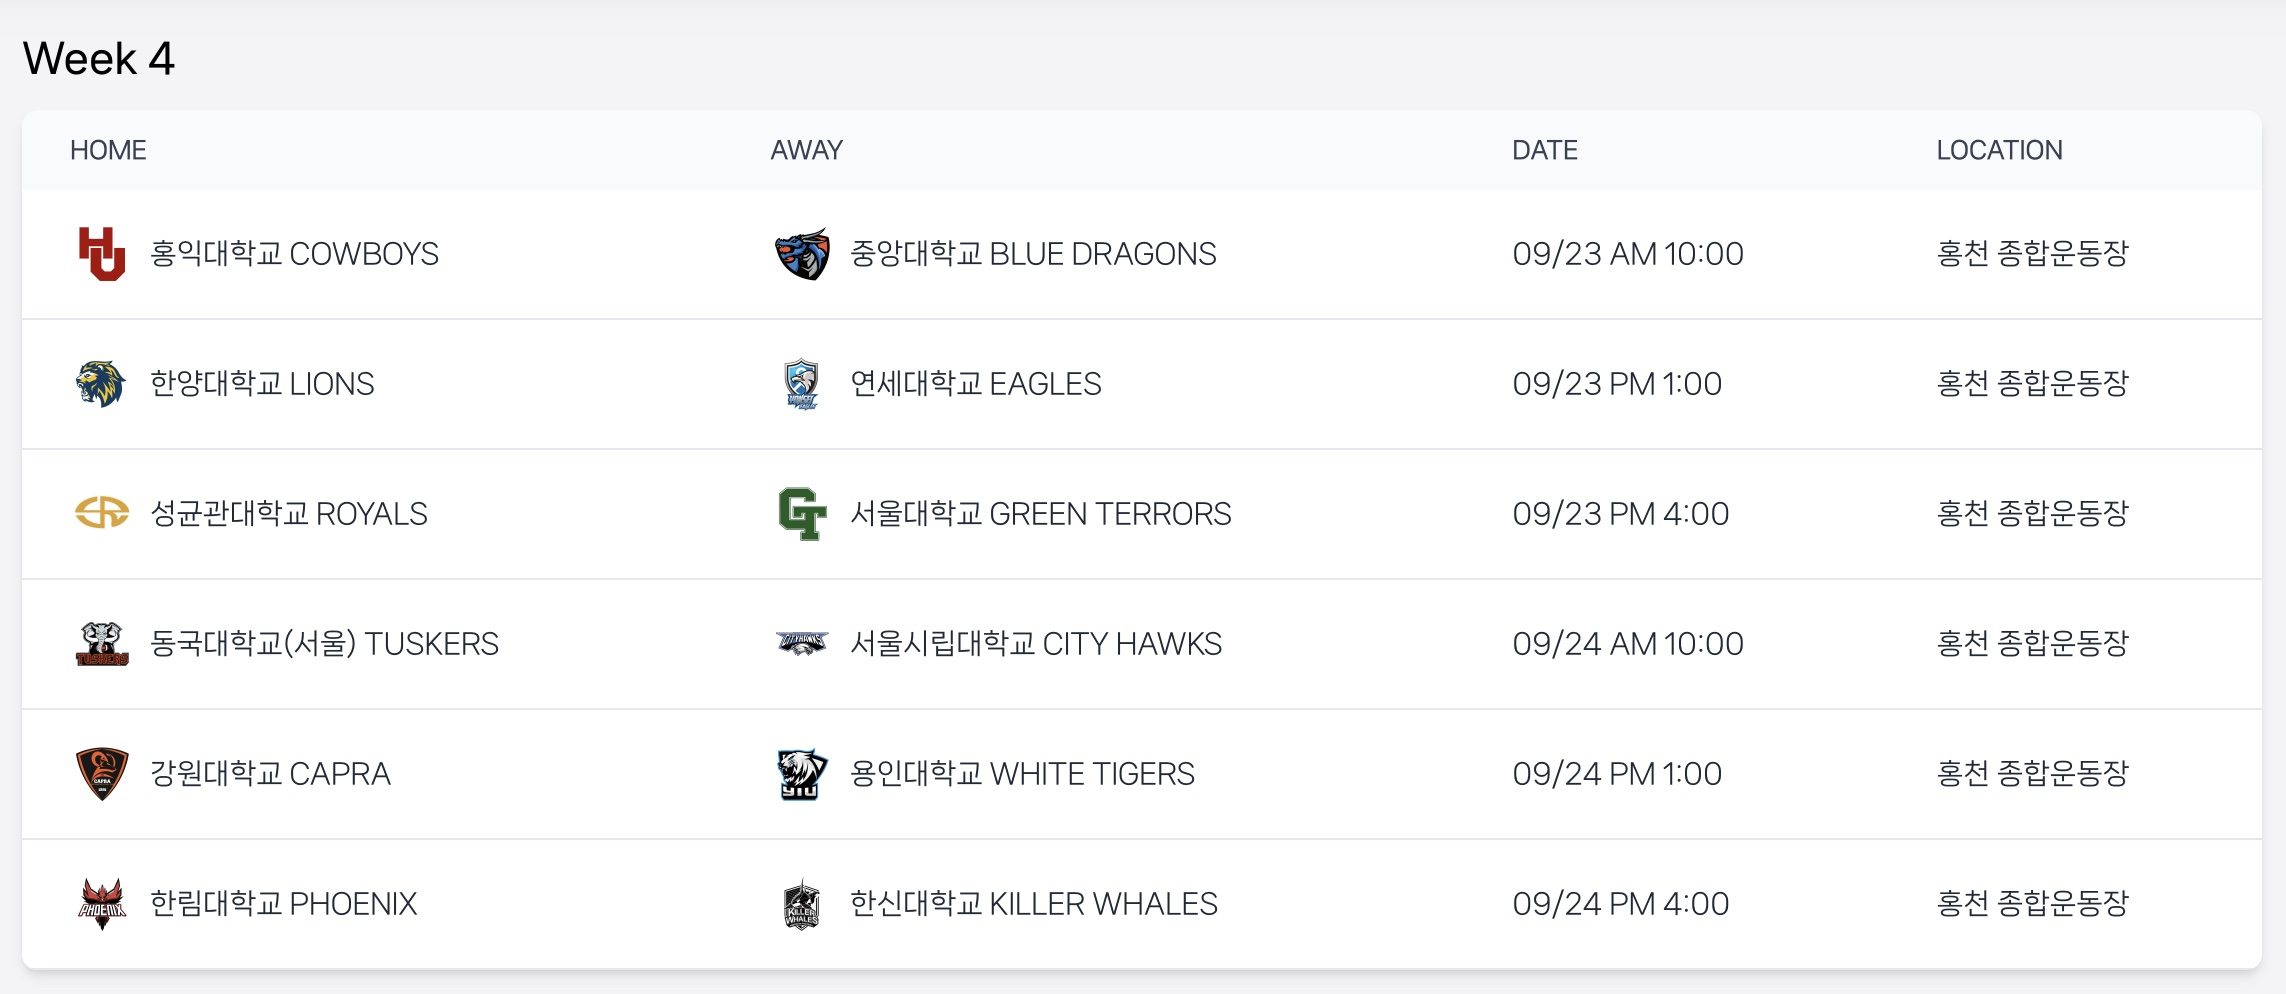
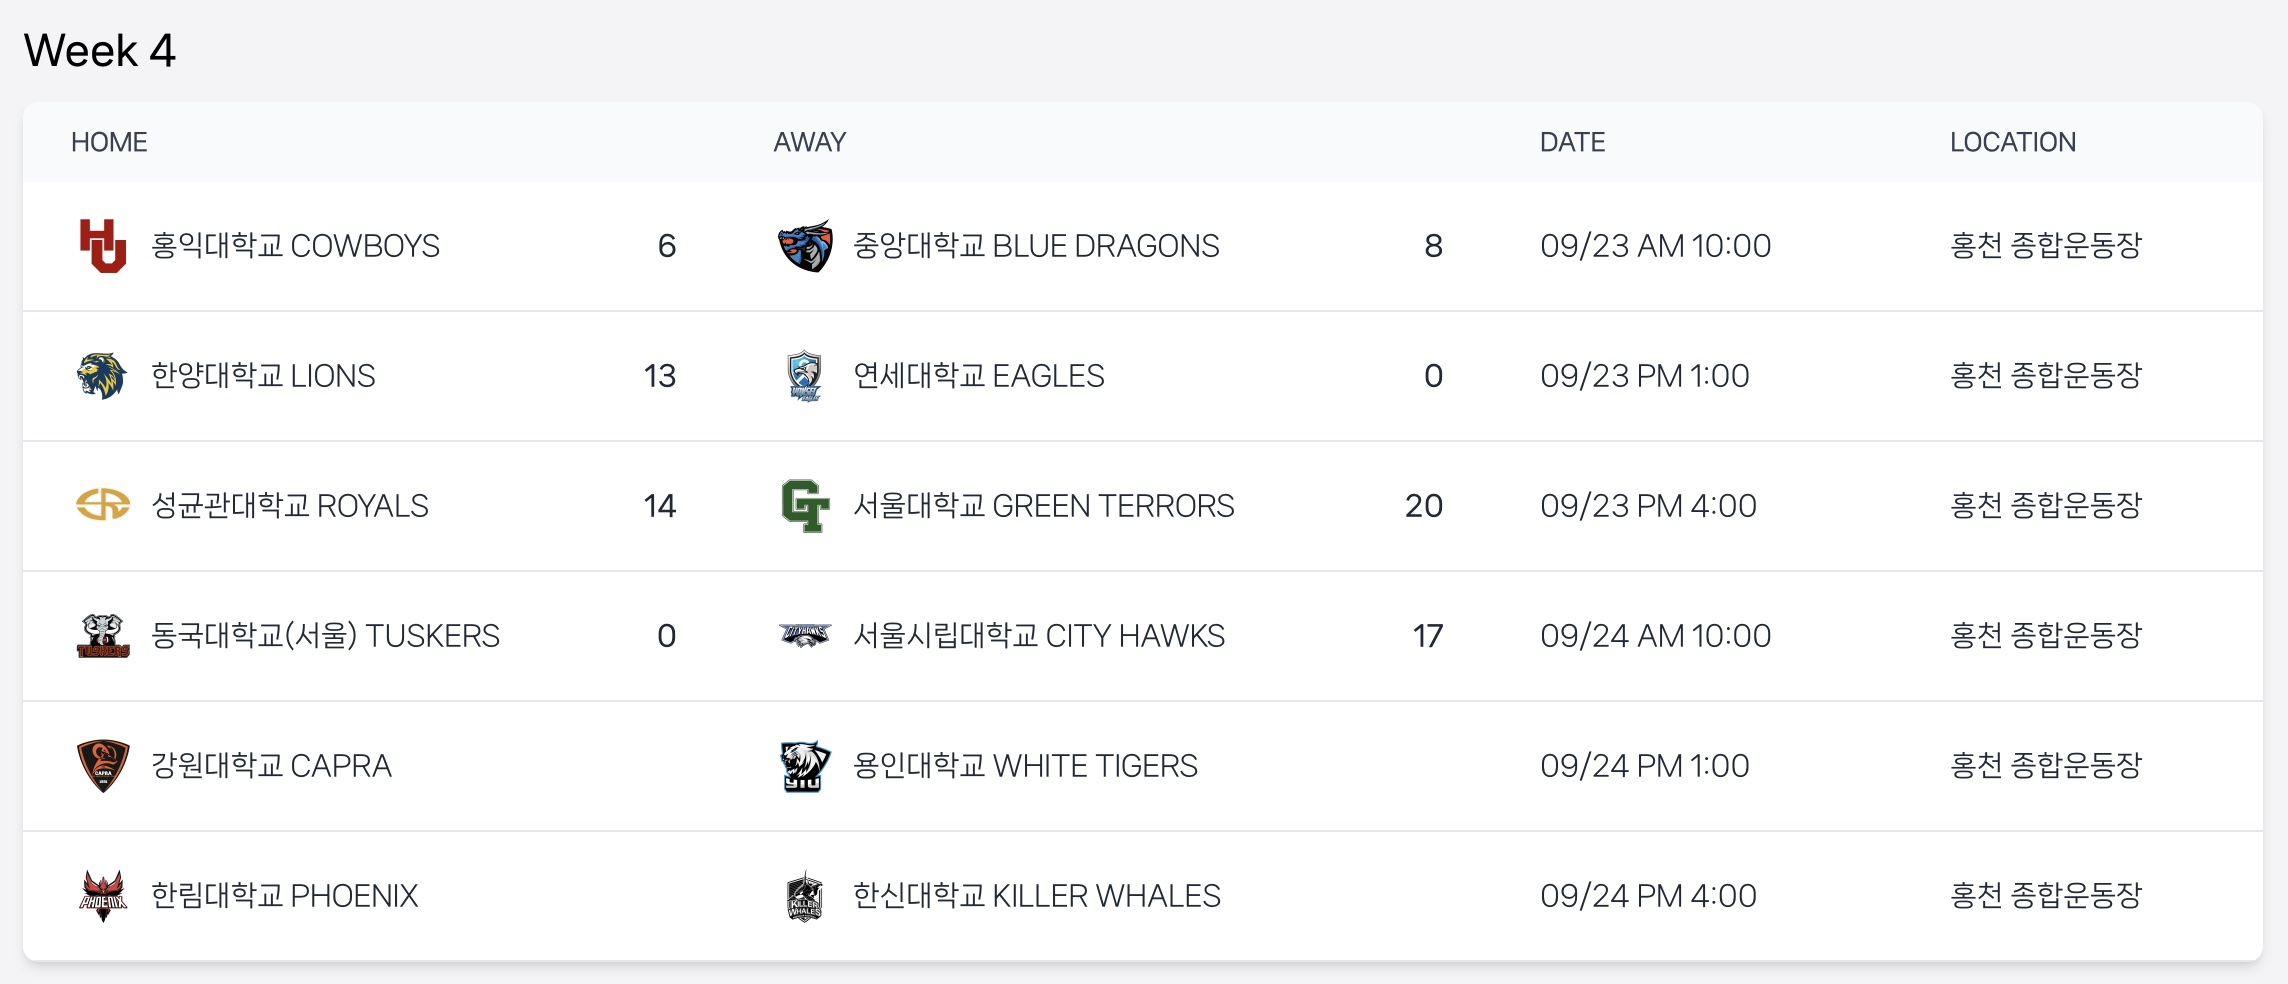
fix: main page ui (#76)

diff --git a/src/views/home/homeView.vue b/src/views/home/homeView.vue
@@ -1,7 +1,7 @@
 <template>
   <div class="flex flex-col">
     <div class="relative flex justify-center w-full h-60%">
-      <div class="w-[1500px] h-[350px] sm:h-[650px]">
+      <div class="w-[1500px] h-[150px] sm:h-[350px]">
         <img :src="currentImageUrl" alt="description" class="object-cover w-full h-full" />
       </div>
       <div class="absolute bottom-3 right-1 transform -translate-x-1/2 z-10 space-x-2">
@@ -18,31 +18,59 @@
           •
         </button>
       </div>
-      <!-- <div class="py-10 sm:py-20 text-start max-w-screen-xl px-4 md:px-20 w-full">
-        <h3 class="text-lg md:text-2xl text-teal-300 mb-2 font-bold">
-          2023 홍천군수배 서울/경기·강원
-        </h3>
-        <h2 class="text-3xl md:text-5xl font-display font-extrabold mb-6 font-mono text-white">
-          추계 대학미식축구 선수권전
-        </h2>
-        <p class="text-sm md:text-base text-white font-thin">
-          대회명: 2023 홍천군수배 서울경기강원 추계 대학미식축구 선수권전<br />
-          장소: 홍천 종합운동장<br />
-          주최: 대한 미식축구협회, 서울 미식축구협회, 경기강원 미식축구협회<br />
-          신청마감: 2023년 8월 31일 20시<br />
-          참가자격: 2023년 8월 기준 서울 미식축구협회 등록 대학 미식축구팀 또는 경기강원
-          미식축구협회 등록 대학 미식축구팀
-        </p>
-        <div class="flex flex-col md:flex-row flex-wrap justify-start items-start gap-4 mt-8">
-          <a href="https://forms.gle/HxFxoZPkzak7QX3C9" target="_blank">
-            <button
-              class="whitespace-nowrap bg-transparent ring-1 text-teal-300 ring-teal-400 hover:ring-2 hover:bg-black hover:ring-teal-500 hover:text-white uppercase font-sans active:brightness-95 font-semibold hover:subpixel-antialiased ring-inset px-12 py-4 text-base md:text-xl rounded-lg gap-4"
+    </div>
+
+    <div v-for="game in displayGame" :key="game.id" class="flex justify-center bg-white MT-5 py-4">
+      <div class="max-w-screen-xl rounded-2xl px-4 md:px-20 w-full shadow-lg">
+        <div class="text-black grid grid-cols-10 items-center mx-auto gap-y-4">
+          <!-- Home Team -->
+          <div class="col-span-4 flex items-center">
+            <router-link
+              :to="`/team/${game.homeTeam.id}`"
+              class="flex flex-row items-center gap-x-3 sm:gap-x-5 md:gap-x-8"
             >
-              출전 팀 등록하기
-            </button>
-          </a>
+              <img :src="game.homeTeam.profileImgUrl" alt="" class="w-16 sm:w-18 md:w-24" />
+              <div class="hidden sm:block mr-3" style="width: 150px">
+                <p class="text-xs font-bold text-black">HOME</p>
+                <div class="text-sm font-semibold sm:text-xl">
+                  {{ getFirstWord(game.homeTeam.name) }}
+                </div>
+                <div class="block">
+                  {{ game.homeTeam.initial }}
+                </div>
+              </div>
+              <div class="text-lg sm:text-3xl font-black">{{ game.homeTeamScore }}</div>
+            </router-link>
+          </div>
+
+          <!-- Match Info -->
+          <div class="col-span-2 flex flex-col items-center justify-center gap-y-2">
+            <div class="text-xs sm:text-lg hidden sm:block">{{ game.name }}</div>
+            <!-- <div class="text-xs font-medium">{{ printTime(game.gameday) }}</div> -->
+            <div class="text-xs sm:text-lg font-extrabold">RESULT</div>
+          </div>
+
+          <!-- Away Team -->
+          <div class="col-span-4 flex items-center justify-end py-5">
+            <router-link
+              :to="`/team/${game.awayTeam.id}`"
+              class="flex flex-row-reverse items-center gap-x-3 sm:gap-x-5 md:gap-x-8"
+            >
+              <img :src="game.awayTeam.profileImgUrl" alt="" class="w-16 sm:w-18 md:w-24" />
+              <div class="hidden sm:block ml-3" style="width: 150px">
+                <p class="text-xs font-bold text-black">AWAY</p>
+                <div class="text-sm font-semibold sm:text-xl">
+                  {{ getFirstWord(game.awayTeam.name) }}
+                </div>
+                <div class="sm:block">
+                  {{ game.awayTeam.initial }}
+                </div>
+              </div>
+              <div class="text-lg sm:text-3xl font-black">{{ game.awayTeamScore }}</div>
+            </router-link>
+          </div>
         </div>
-      </div> -->
+      </div>
     </div>
 
     <div class="w-full text-center bg-white">
@@ -71,70 +99,23 @@
         </div>
         <div class="pl-3 pt-3 text-xl font-bold text-left">
           NOTICE
-          <table class="mt-3">
-            <thead>
-              <tr></tr>
-            </thead>
-            <tbody>
-              <tr v-for="notice in 5" :key="notice" class="mt-5">
-                <td>[공지] TEST {{ notice }}</td>
-                <hr />
-              </tr>
-            </tbody>
-          </table>
-        </div>
-      </div>
-      <!-- <div class="flex flex-col justify-center items-center">
-        <div class="py-20 text-start max-w-screen-xl px-4 md:px-20">
-          <h1 class="text-3xl font-extrabold text-center">경기장 정보</h1>
-          <div class="overflow-hidden py-20">
-            <div class="mx-auto max-w-7xl">
-              <div
-                class="mx-auto grid max-w-2xl grid-cols-1 gap-x-8 gap-y-16 sm:gap-y-20 lg:mx-0 lg:max-w-none lg:grid-cols-2"
-              >
-                <div class="lg:pr-8 lg:pt-4">
-                  <div class="lg:max-w-lg">
-                    <h2 class="text-base font-extrabold leading-7 text-teal-500">
-                      Hongcheon Stadium
-                    </h2>
-                    <p class="mt-2 text-2xl font-bold tracking-tight text-gray-900 sm:text-3xl">
-                      홍천 종합운동장
-                    </p>
-                    <p class="mt-6 text-base leading-8 text-gray-600">
-                      홍천종합운동장(洪川綜合運動場, Hongcheon Stadium)은 대한민국 강원특별자치도
-                      홍천군에 있는 스포츠 시설이다. 천연잔디 필드와 우레탄 필드가 갖춰진
-                      경기장이며, 2004년 10월에 준공되었다.
-                    </p>
-                    <dl
-                      class="mt-10 max-w-xl space-y-8 text-base leading-7 text-gray-600 lg:max-w-none"
-                    >
-                      <div v-for="feature in features" :key="feature.name" class="relative pl-9">
-                        <dt class="inline font-semibold text-gray-900">
-                          <component
-                            :is="feature.icon"
-                            class="absolute left-1 top-1 h-5 w-5 text-teal-500"
-                            aria-hidden="true"
-                          />
-                          {{ feature.name }}
-                        </dt>
-                        {{ ' ' }}
-                        <dd class="inline">{{ feature.description }}</dd>
-                      </div>
-                    </dl>
-                  </div>
-                </div>
-                <img
-                  src="/images/stadium.jpg"
-                  alt="Product screenshot"
-                  class="w-full sm:w-[57rem] max-w-sm sm:max-w-none rounded-xl shadow-xl ring-1 ring-gray-400/10 md:-ml-4 lg:-ml-0"
-                  width="2432"
-                  height="1442"
-                />
-              </div>
-            </div>
+          <div class="bg-gray-100">
+            <table class="mt-3">
+              <thead>
+                <tr>
+                  <th></th>
+                </tr>
+              </thead>
+              <tbody>
+                <tr v-for="notice in 6" :key="notice" class="mt-3">
+                  <td class="p-3">[공지] test {{ notice }}</td>
+                </tr>
+              </tbody>
+            </table>
           </div>
         </div>
-      </div> -->
+      </div>
+
       <div class="flex flex-col bg-white">
         <div class="py-24">
           <h1 class="text-3xl font-extrabold mb-14">협회 등록 팀 현황</h1>
@@ -227,10 +208,9 @@
   <alertModal></alertModal>
 </template>
 <script lang="ts" setup>
-// import { LinkIcon, MapIcon, MapPinIcon } from '@heroicons/vue/20/solid'
 import alertModal from '@/modal/alertModal.vue'
 import { useHead } from '@vueuse/head'
-import { ref, computed, watch, onMounted } from 'vue'
+import { ref, computed, watch, onMounted, onUnmounted } from 'vue'
 import { axiosInstance } from '@/common/auth/store'
 
 let timeoutId: number | null = null
@@ -260,12 +240,89 @@ interface UpcomingGame {
   }
 }
 
+interface GetLeagueGames {
+  id: number
+  homeTeamId: number
+  homeTeamScore: number
+  awayTeamId: number
+  awayTeamScore: number
+  leagueId: number
+  name: string
+  gameday: Date
+  location: string
+  result: string
+  awayTeam: {
+    id: number
+    name: string
+    initial: string
+    profileImgUrl: string
+  }
+  homeTeam: {
+    id: number
+    name: string
+    initial: string
+    profileImgUrl: string
+  }
+  league: {
+    id: number
+    name: string
+  }
+}
+
+const getFirstWord = (str: string) => {
+  const firstSpaceIndex = str.indexOf(' ')
+  return firstSpaceIndex !== -1 ? str.substring(0, firstSpaceIndex) : str
+}
+
+const gameResults = ref<GetLeagueGames[]>([])
+
+const sortedGameResults = computed(() => {
+  return [...gameResults.value].sort((a, b) => {
+    if (typeof a.gameday === 'string' && typeof b.gameday === 'string') {
+      const dateA = new Date(a.gameday)
+      const dateB = new Date(b.gameday)
+      return dateB.getTime() - dateA.getTime() // 내림차순 정렬
+    }
+    return 0
+  })
+})
+const currentGameIndex = ref(0)
+let timer: number | null = null
+
+const displayGame = computed(() => {
+  return sortedGameResults.value.length ? [sortedGameResults.value[currentGameIndex.value]] : []
+})
+
+const startTimer = () => {
+  timer = window.setInterval(() => {
+    currentGameIndex.value = (currentGameIndex.value + 1) % sortedGameResults.value.length
+  }, 5000)
+}
+
+const getLeagueGames = () => {
+  for (let gameId = 19; gameId < 24; gameId++) {
+    axiosInstance
+      .get(`/team-game/${gameId}`)
+      .then((response) => {
+        gameResults.value.push(response.data)
+
+        console.log('리그게임 불러오기', response.data)
+      })
+      .catch((error) => {
+        if (error) {
+          alert('일정 불러오기 오류입니다.')
+        }
+      })
+  }
+}
+
 const gameScheduleImgUrl = ref<string[]>([
   '/images/mainScheduleImg/seoulWeek1.jpg',
   '/images/mainScheduleImg/seoulWeek2.jpg',
   '/images/mainScheduleImg/seoulWeek3.jpg',
   '/images/mainScheduleImg/seoulWeek4.jpg',
-  '/images/mainScheduleImg/seoulWeek5.jpg'
+  '/images/mainScheduleImg/seoulWeek5.jpg',
+  '/images/mainScheduleImg/seoulWeek6.jpg'
 ])
 const currentScheduleIndex = ref(0)
 
@@ -356,24 +413,6 @@ useHead({
   ]
 })
 
-// const features = [
-//   {
-//     name: '주소',
-//     description: '강원 홍천군 홍천읍 태학여내길 27',
-//     icon: MapPinIcon
-//   },
-//   {
-//     name: '지도 앱에서 보기',
-//     description: 'https://naver.me/FOvh9bcR',
-//     icon: MapIcon
-//   },
-//   {
-//     name: '홈페이지',
-//     description: 'http://sports.gangwon.kr',
-//     icon: LinkIcon
-//   }
-// ]
-
 const stats = [
   { id: 1, name: '합계', value: '20' },
   { id: 2, name: '서울 미식축구협회', value: '14' },
@@ -382,6 +421,14 @@ const stats = [
 
 onMounted(async () => {
   await getUpcomingGames()
+  await getLeagueGames()
+  startTimer()
+})
+
+onUnmounted(() => {
+  if (timer) {
+    clearInterval(timer)
+  }
 })
 </script>
 <style scoped></style>

diff --git a/src/views/manager/updateTeamRoster.vue b/src/views/manager/updateTeamRoster.vue
@@ -282,7 +282,7 @@ const updateMember = () => {
   console.log(dataToUpdate)
 
   axiosInstance
-    .put(`/manager/team/member/${currentEditingId.value}/profile/content`, dataToUpdate)
+    .put(`/manager/team/member/${currentEditingId.value}/profile/contents`, dataToUpdate)
     .then((response) => {
       console.log(response.data)
       closeModal()
